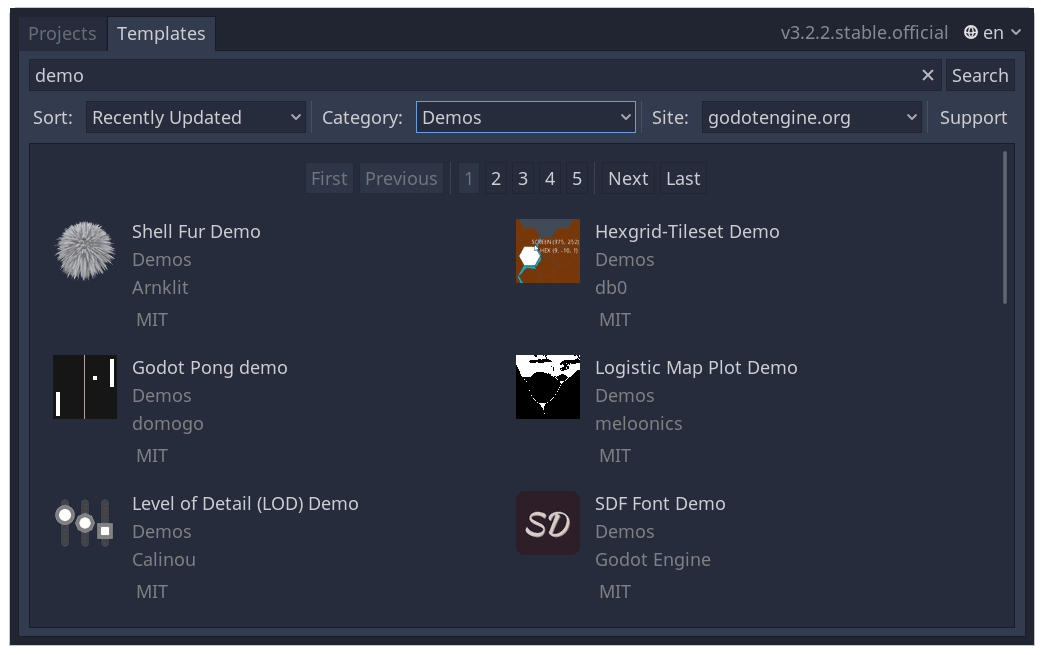
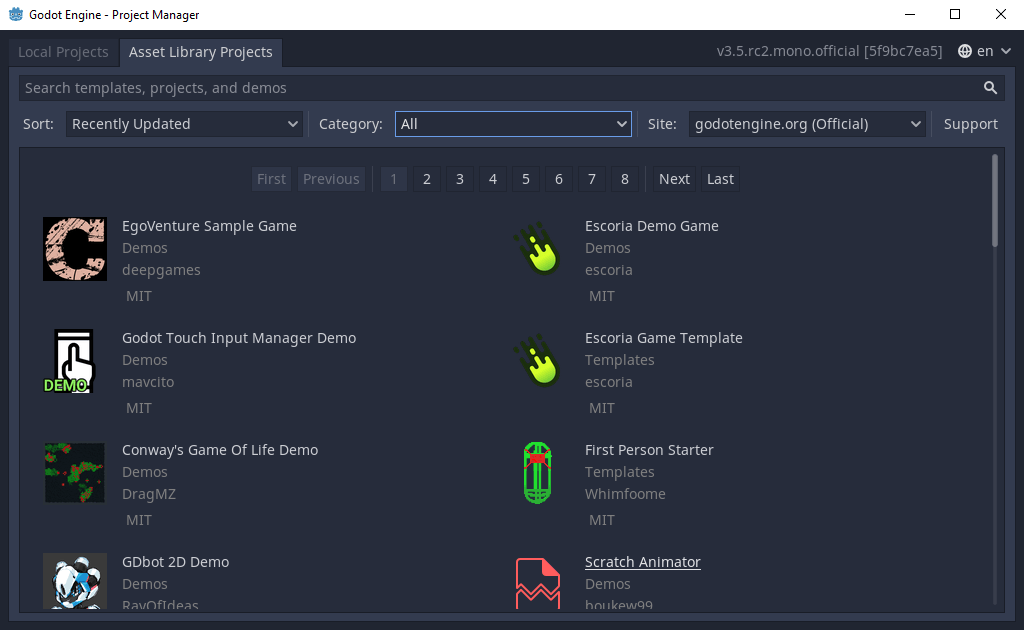
Update intro to editor for 3.5

diff --git a/getting_started/introduction/first_look_at_the_editor.rst b/getting_started/introduction/first_look_at_the_editor.rst
@@ -24,9 +24,9 @@ ones, and more.
 
 .. image:: img/editor_intro_project_manager.png
 
-At the top of the window, there is another tab named "Templates". You can search
-for demo projects in the open-source asset library, which includes many projects
-developed by the community.
+At the top of the window, there is another tab named "Asset Library Projects".
+In the open-source asset library you can search for demo projects, templates,
+and completed projects, including many that are developed by the community.
 
 .. image:: img/editor_intro_project_templates.png
 
